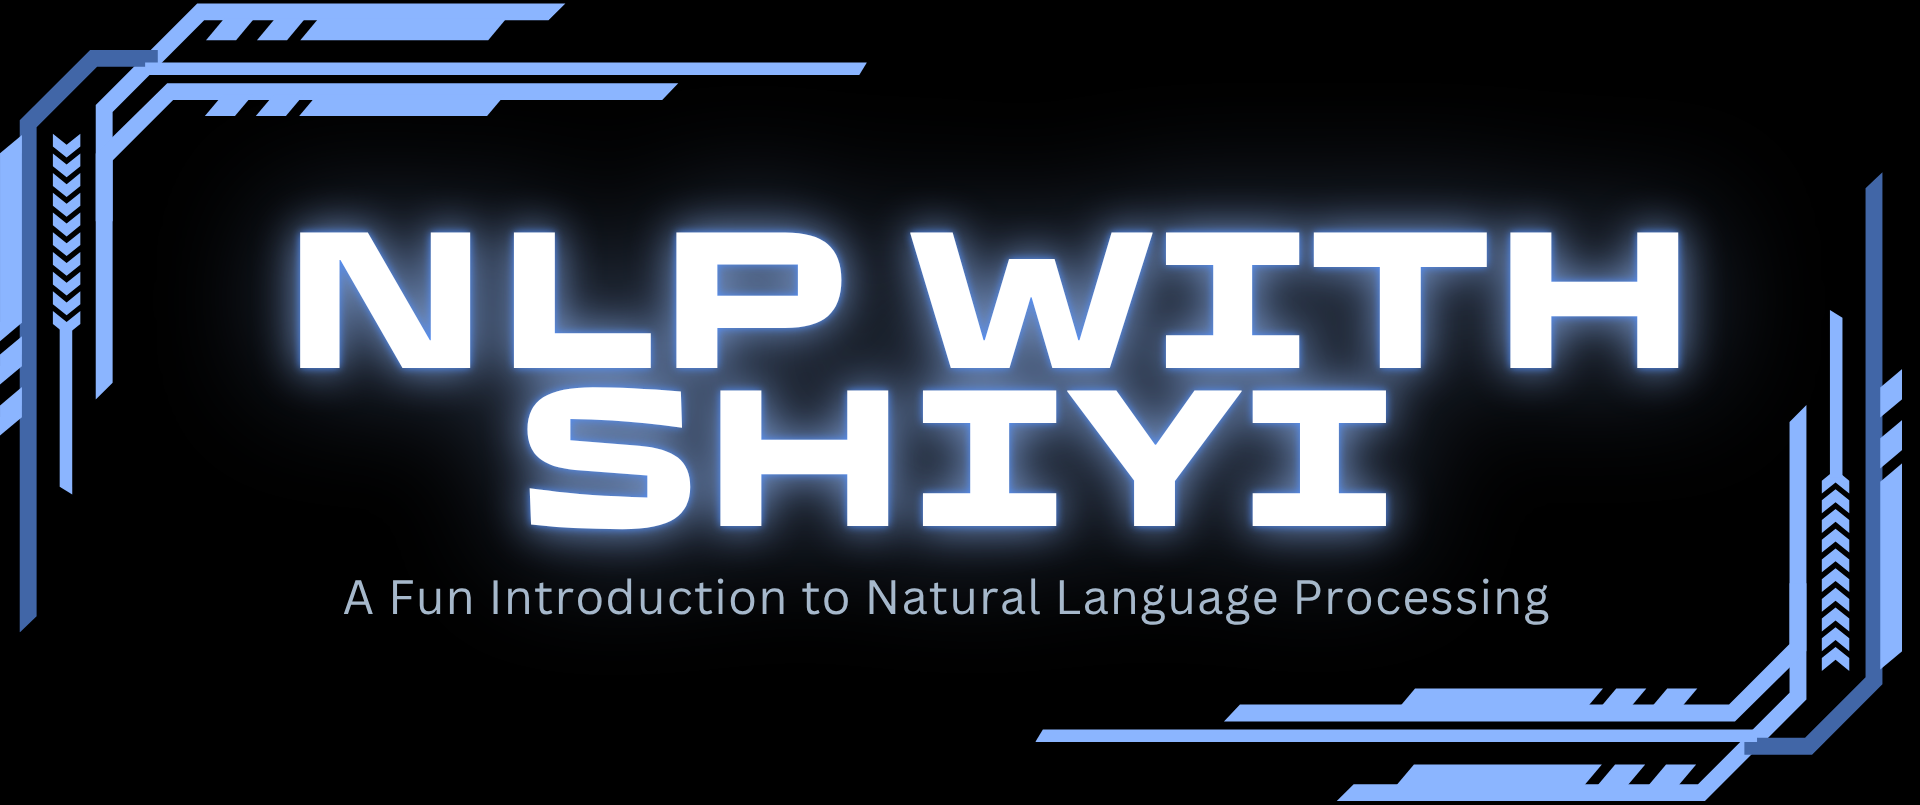
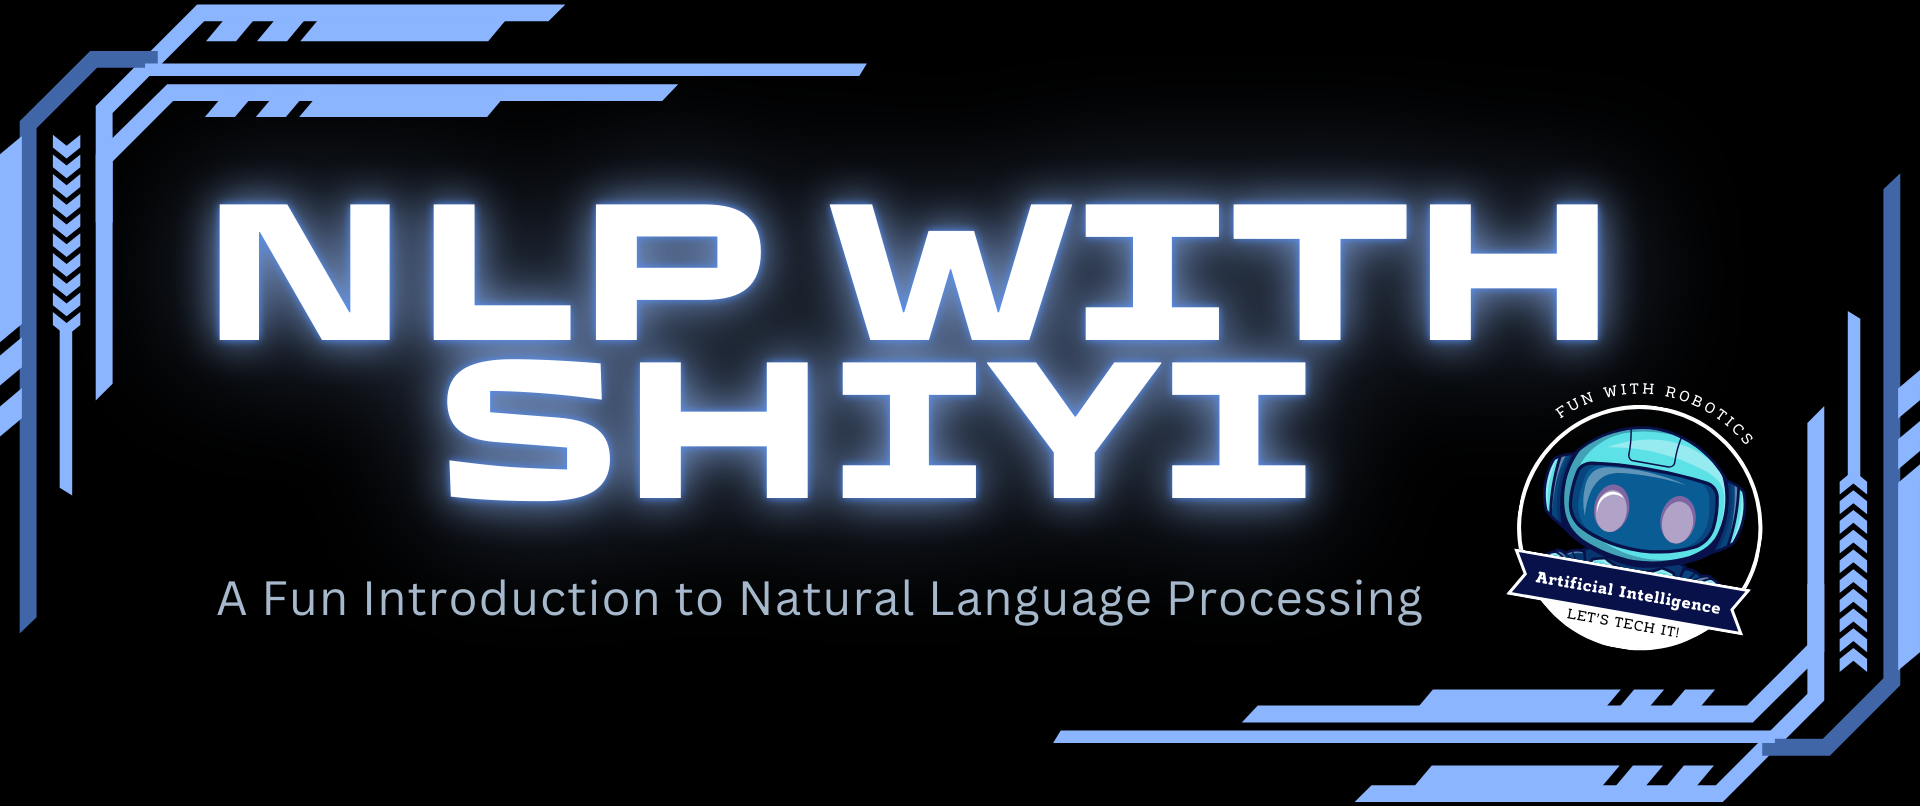
franklin-update

diff --git a/index.md b/index.md
@@ -1,5 +1,5 @@
 
-![intro](./assets/nlpwme_3.png)
+![intro](./assets/nlpwme_2.png)
 
 # Understanding Natural Language Processing with Me!
 
